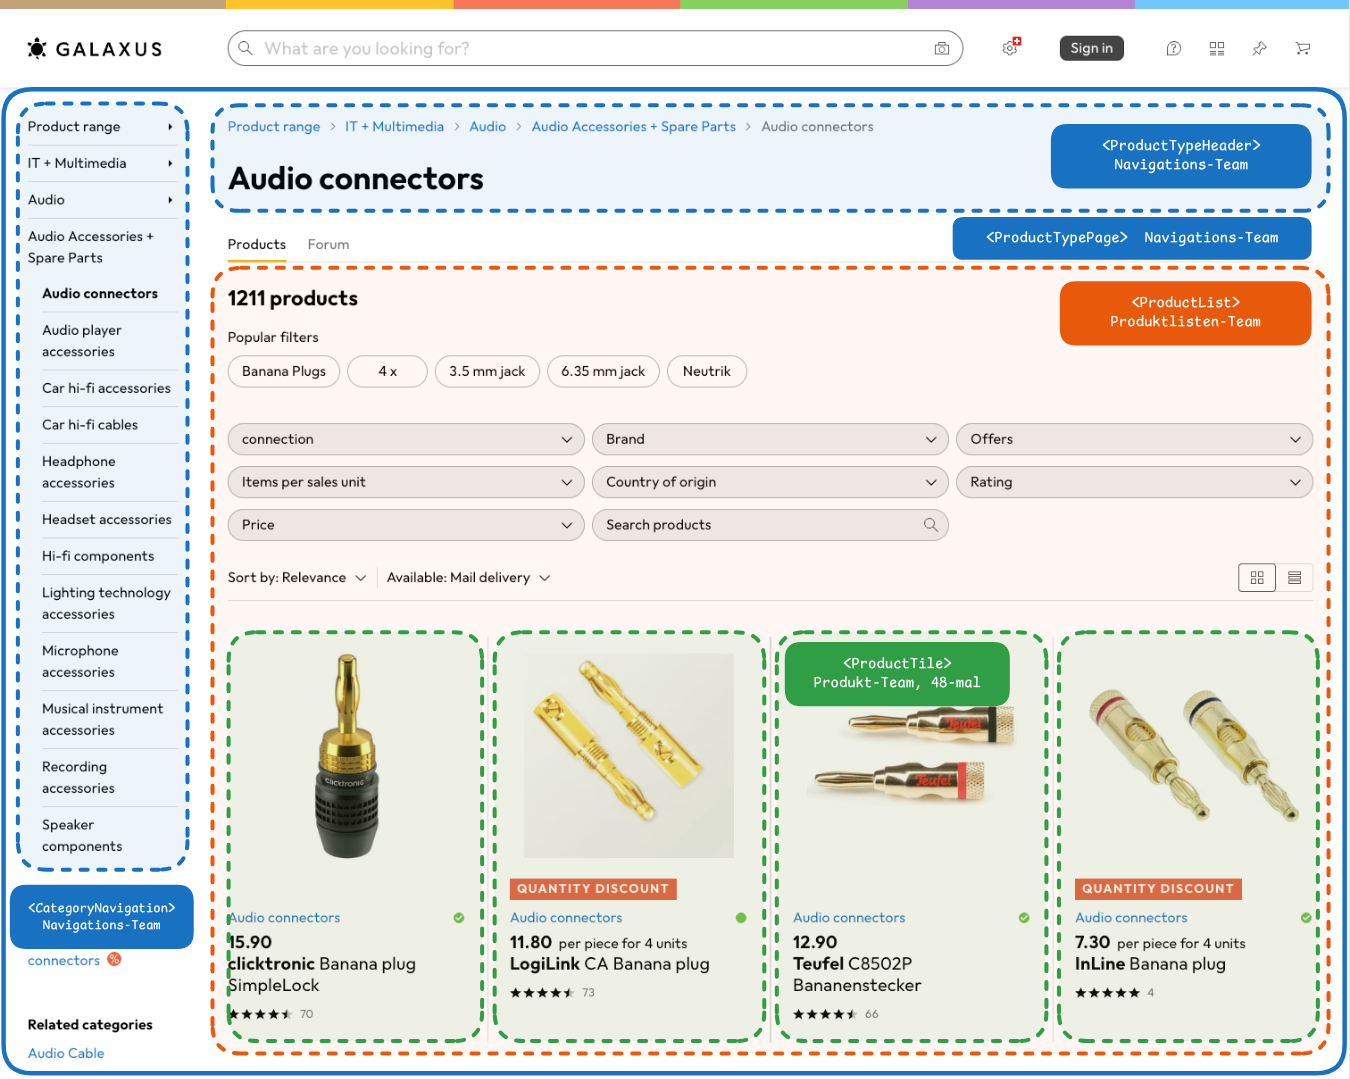
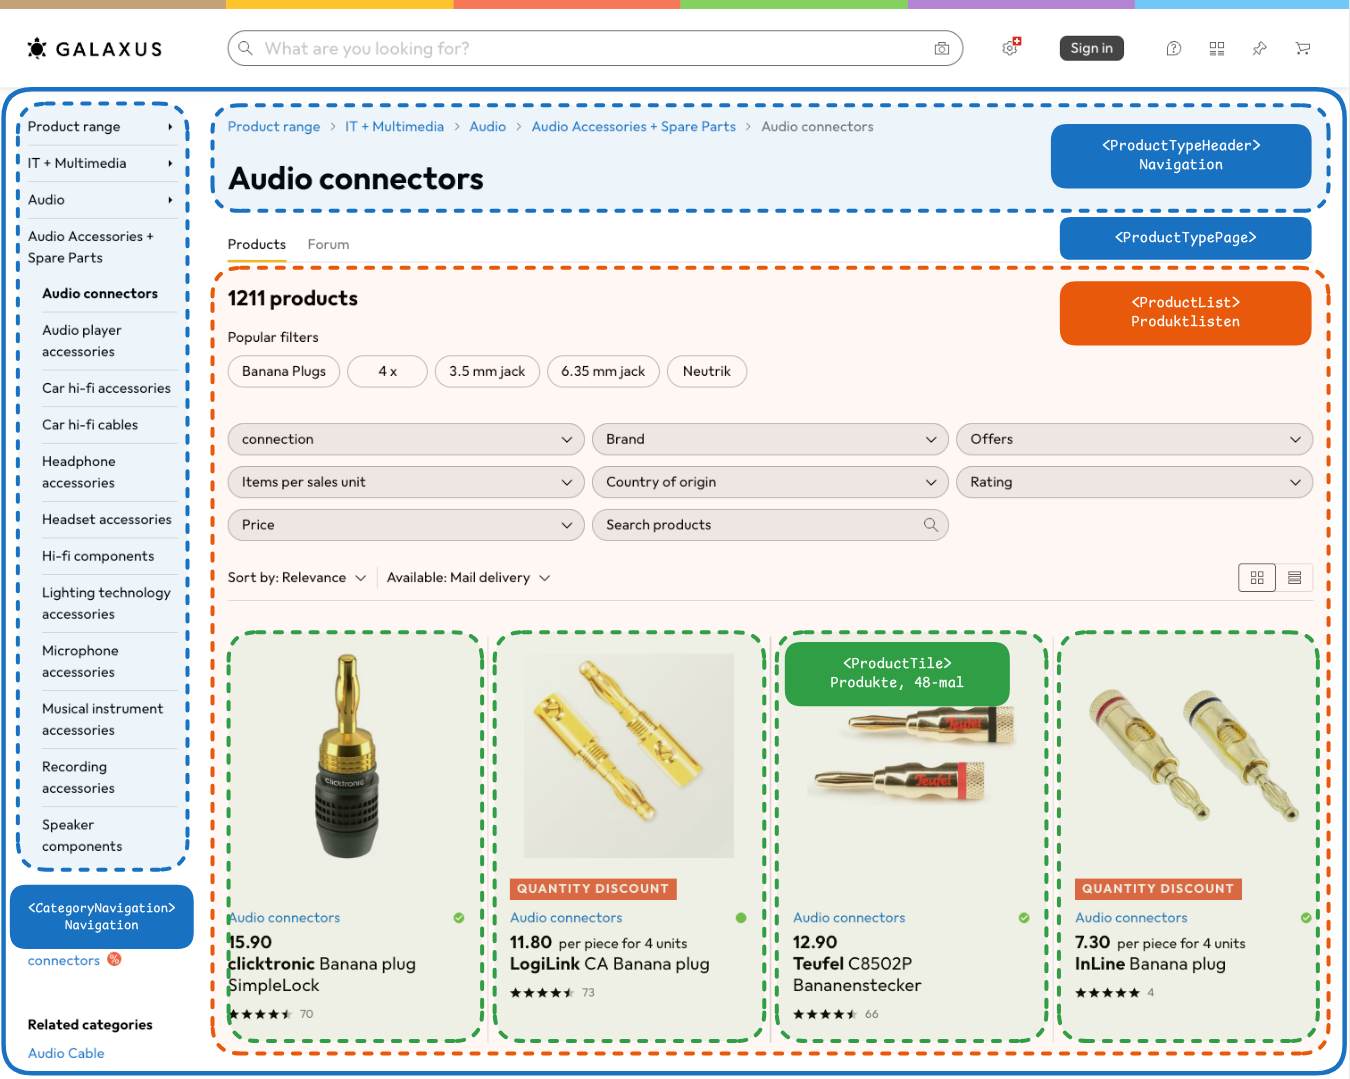
Talk about domains instead of teams in the GraphQL topic
The page now splits its data by domain (navigation, product lists,
products) without mentioning teams. Fragments and data masking are
argued with components, and federation splits the schema by domain.
All affected graphics are relabelled; page-teams.png is now
page-domains.png.

diff --git a/topics/graphql-vs-rest/README.md b/topics/graphql-vs-rest/README.md
@@ -1,13 +1,13 @@
 # Over- und Under-Fetching lösen mit GraphQL
 
-**Das Problem:** Mit REST lädt eine Seite ihre Daten aus mehreren Services in Runden nacheinander und bekommt zu viele und zu wenige Daten.
+**Das Problem:** Mit REST lädt eine Seite ihre Daten aus mehreren Services in Runden nacheinander (Wasserfall) und bekommt zu viele und zu wenige Daten.
 
 **Dauer:** etwa 60 Minuten
 
 ## Inhalt
 
 - [REST in Kürze](#rest-in-kürze)
-- [Das Beispiel: eine Seite, drei Teams](#das-beispiel-eine-seite-drei-teams)
+- [Das Beispiel: eine Seite, drei Domänen](#das-beispiel-eine-seite-drei-domänen)
 - [Das Problem: die Seite mit REST laden](#das-problem-die-seite-mit-rest-laden)
 - [Die Lösung: GraphQL](#die-lösung-graphql)
 - [Fragments: jede Komponente deklariert ihre Daten](#fragments-jede-komponente-deklariert-ihre-daten)
@@ -35,27 +35,27 @@ Accept: application/json
 
 Verwandte Ressourcen erscheinen oft als Links (`href`), denen der Client mit dem nächsten Request folgt.
 
-Gehören API und Frontend demselben Team, ist ein neues Feld auf einer Seite eine Änderung an einem Route Handler. Das funktioniert nicht mehr, sobald die Seite Daten aus **Services anderer Teams** braucht.
+Braucht eine Seite Daten aus einer einzigen API, ist ein neues Feld eine Änderung an einem Route Handler. Das reicht nicht mehr, sobald die Seite Daten aus **mehreren Services** braucht.
 
-## Das Beispiel: eine Seite, drei Teams
+## Das Beispiel: eine Seite, drei Domänen
 
-Unser Beispiel ist eine echte Seite: [Audio-Steckverbinder auf galaxus.ch](https://www.galaxus.ch/en/s1/producttype/audio-connectors-3137). Die Teams, APIs und Responses dazu sind **erfunden**. Sie beschreiben nicht, wie Galaxus gebaut ist.
+Unser Beispiel ist eine echte Seite: [Audio-Steckverbinder auf galaxus.ch](https://www.galaxus.ch/en/s1/producttype/audio-connectors-3137). Die APIs und Responses dazu sind **erfunden**. Sie beschreiben nicht, wie Galaxus gebaut ist.
 
-Drei Teams teilen sich die Seite:
+Die Daten der Seite kommen aus drei Domänen:
 
-- Dem **Navigations-Team** gehört die Seite selbst mit Titel, Breadcrumb und Sidebar.
-- Dem **Produktlisten-Team** gehört die Liste: welche Produkte zu den Filtern passen, wie viele es sind und in welcher Reihenfolge.
-- Dem **Produkt-Team** gehören die Kacheln: Name, Marke, Preis, Bilder und Bewertungen eines Produkts.
+- **Navigation:** die Seite selbst mit Titel, Breadcrumb und Sidebar.
+- **Produktlisten:** welche Produkte zu den Filtern passen, wie viele es sind und in welcher Reihenfolge.
+- **Produkte:** Name, Marke, Preis, Bilder und Bewertungen jeder Kachel.
 
-![Die Produkttyp-Seite des Navigations-Teams, darin die Liste des Produktlisten-Teams und darin die Kacheln des Produkt-Teams](./assets/page-teams.png)
+![Die Produkttyp-Seite aus der Navigation, darin die Produktliste und darin die Produktkacheln](./assets/page-domains.png)
 
-Jedes Team betreibt einen eigenen Service mit eigener REST API. **Die Verschachtelung ist auch die Ladereihenfolge:** Die Seite braucht die Produktliste, und die Liste braucht die Produkte.
+Jede Domäne hat einen eigenen Service mit eigener REST API. **Die Verschachtelung ist auch die Ladereihenfolge:** Die Seite braucht die Produktliste, und die Liste braucht die Produkte.
 
 ## Das Problem: die Seite mit REST laden
 
-### Runde 1: der Produkttyp vom Navigations-Team
+### Runde 1: der Produkttyp aus der Navigation
 
-Die Produkttyp-ID `3137` steht in der URL. Das Navigations-Team liefert Titel, Breadcrumb und Sidebar:
+Die Produkttyp-ID `3137` steht in der URL. Der Navigations-Service liefert Titel, Breadcrumb und Sidebar:
 
 ```jsonc
 // GET /api/product-types/3137
@@ -76,7 +76,7 @@ Die Produkttyp-ID `3137` steht in der URL. Das Navigations-Team liefert Titel, B
 }
 ```
 
-### Runde 2: die Produktliste vom Produktlisten-Team
+### Runde 2: die Produktliste
 
 Die Produktliste ist nur verlinkt, der Browser muss also **auf Runde 1 warten**:
 
@@ -94,9 +94,9 @@ Die Produktliste ist nur verlinkt, der Browser muss also **auf Runde 1 warten**:
 }
 ```
 
-### Runde 3: die Produkte vom Produkt-Team
+### Runde 3: die Produkte
 
-Der Browser fragt das Produkt-Team **für jedes der 48 Produkte** einzeln an:
+Der Browser fragt den Produkt-Service **für jedes der 48 Produkte** einzeln an:
 
 ```jsonc
 // GET /api/products/5862971
@@ -216,7 +216,7 @@ type Product {
 # Category, NavigationEntry, Brand, Money and Rating are left out
 ```
 
-**Das Schema versteckt die Services.** `ProductType.products` sieht aus wie ein gewöhnliches Feld, obwohl der Service des Produktlisten-Teams es beantwortet.
+**Das Schema versteckt die Services.** `ProductType.products` sieht aus wie ein gewöhnliches Feld, obwohl der Produktlisten-Service es beantwortet.
 
 Die Seite schickt **eine Query mit allem, was sie anzeigt**. `$id` ist eine **Variable**, wie ein Routenparameter.
 
@@ -368,12 +368,12 @@ Doku: [Response](https://graphql.org/learn/response/), [Relay: Field Errors](htt
 
 ## Fragments: jede Komponente deklariert ihre Daten
 
-Eine Query pro Seite löst den Wasserfall für den Browser. **Aber wer schreibt sie?** Die Seite besteht aus Komponenten, und die Komponenten gehören den drei Teams:
+Eine Query pro Seite löst den Wasserfall für den Browser. **Aber wer schreibt sie?** Die Seite besteht aus Komponenten, und jede braucht Daten aus einer anderen Domäne:
 
 ![Die Seite aufgeteilt in Komponenten: ProductTypePage umschliesst CategoryNavigation, ProductTypeHeader und ProductList, und ProductList rendert ProductTile](./assets/page-components.png)
 
-- Schreibt **die Seite** die Query, listet sie jedes Feld jedes Teams auf. Jedes neue Feld auf einer Kachel heisst, die Query der Seite anzupassen, und niemand wagt es, ein Feld zu entfernen, also wächst die Query nur.
-- Holt **jede Komponente** ihre eigenen Daten, sind die Teams wieder unabhängig, aber wir sind zurück bei vielen Requests und Wasserfällen.
+- Schreibt **die Seite** die Query, listet sie jedes Feld jeder Komponente auf. Jedes neue Feld auf einer Kachel heisst, die Query der Seite anzupassen, und niemand wagt es, ein Feld zu entfernen, also wächst die Query nur.
+- Holt **jede Komponente** ihre eigenen Daten, sind die Komponenten unabhängig, aber wir sind zurück bei vielen Requests und Wasserfällen.
 
 Die Lösung heisst **Colocation**: Jede Komponente deklariert ihre Felder direkt neben ihrem Code, als **Fragment**. Ein Fragment ist eine benannte Liste von Feldern auf einem Typ, und `...Name` fügt es in eine Query ein. Ein Name wie `ProductTile_product` bedeutet: was `ProductTile` von einem `product` braucht.
 
@@ -459,7 +459,7 @@ export function ProductList(props: { productType: ProductList_productType$key })
 }
 ```
 
-`ProductTypePage`, die Seitenkomponente des Navigations-Teams, setzt nur die Fragments der direkt untergeordneten Komponenten zusammen und lädt die Daten mit `useLazyLoadQuery`:
+`ProductTypePage`, die Seitenkomponente, setzt nur die Fragments der direkt untergeordneten Komponenten zusammen und lädt die Daten mit `useLazyLoadQuery`:
 
 ```tsx
 export function ProductTypePage(props: { id: string }) {
@@ -488,11 +488,11 @@ export function ProductTypePage(props: { id: string }) {
 
 An jeder Stelle `...Name` setzt GraphQL die Felder des Fragments ein. Beim Server kommen also dieselben Felder an wie in der Query weiter oben (plus `id`), und **die Seite schickt weiterhin einen Request**.
 
-Fügt das Produkt-Team der Kachel ein Feld hinzu, das es im Schema schon gibt, ändert das Team nur `ProductTile` und dessen Fragment. **Die Query der Seite bleibt, wie sie ist.**
+Braucht die Kachel ein Feld, das es im Schema schon gibt, änderst du nur `ProductTile` und dessen Fragment. **Die Query der Seite bleibt, wie sie ist.**
 
 ### Data Masking
 
-**Data Masking** versteckt die Felder anderer Teams. `props.product` kommt maskiert an: Erst `useFragment` mit dem eigenen Fragment gibt die Felder frei. In `ProductList` heisst das:
+**Data Masking** versteckt die Felder anderer Komponenten. `props.product` kommt maskiert an: Erst `useFragment` mit dem eigenen Fragment gibt die Felder frei. In `ProductList` heisst das:
 
 ```tsx
 item.id; // fine: ProductList asked for it
@@ -507,7 +507,7 @@ Doku: [Fragments](https://graphql.org/learn/queries/#fragments)
 
 ### Parallel laden, Batch und BFF
 
-Unser REST-Beispiel ist bewusst naiv. Ein REST-Team kann den Wasserfall stark verkürzen:
+Unser REST-Beispiel ist bewusst naiv. Auch mit REST lässt sich der Wasserfall stark verkürzen:
 
 - **Parallel laden.** Die Seite kennt `productTypeId` aus ihrer URL. Produkttyp und Liste warten nur aufeinander, weil wir dem Link folgen.
 - **Ein Batch-Endpoint.** `GET /api/products?ids=5862971,3376520,...` statt 48 einzelner Requests.
@@ -553,7 +553,7 @@ GraphQL verschiebt Arbeit vom Client auf den Server und ins Tooling:
 | **Fehler**        | Ein Statuscode pro Request.                                                            | Ein fehlgeschlagenes Feld liefert meist `200`. Monitoring, das Statuscodes zählt, verpasst es.                                                                            |
 | **Autorisierung** | Wird in jedem Route Handler geprüft.                                                   | Viele Queries erreichen dasselbe Feld. Prüfe Berechtigungen deshalb einmal, im Code hinter den Resolvern, nicht pro Query. Vergisst du es, ist jeder Pfad zum Feld offen. |
 | **Teure Queries** | Jeder Request ist im Voraus bekannt.                                                   | Clients schreiben ihre eigenen. In Produktion erlaubt der Server oft nur bekannte Queries (**Trusted Documents**) und begrenzt Tiefe und Kosten.                          |
-| **Betrieb**       | Endpoints, die die Teams ohnehin betreiben.                                            | Ein zusätzlicher Server, den ein Team betreibt, dazu Codegen und Schema-Checks im CI.                                                                                     |
+| **Betrieb**       | Die Endpoints der Services, die es ohnehin gibt.                                       | Ein zusätzlicher Server, den jemand betreiben muss, dazu Codegen und Schema-Checks im CI.                                                                                 |
 
 Doku: [Autorisierung](https://graphql.org/learn/authorization/), [Sicherheit](https://graphql.org/learn/security/)
 
@@ -568,9 +568,9 @@ Doku: [Auslieferung über HTTP](https://graphql.org/learn/serving-over-http/)
 
 ## GraphQL und REST in einer grossen Firma
 
-Ein grosser Shop nutzt **beides**. Im Hintergrund betreibt jedes Team eigene Services mit eigener Datenbank. Davor sitzen zwei Arten von Einstiegspunkten:
+Ein grosser Shop nutzt **beides**. Im Hintergrund hat jede Domäne einen eigenen Service mit eigener Datenbank. Davor sitzen zwei Arten von Einstiegspunkten:
 
-![Ein GraphQL-Server für die Daten der Seiten, REST-Endpoints für alles andere, dahinter die Services der Teams, die GraphQL oder REST sprechen](./assets/large-company.png)
+![Ein GraphQL-Server für die Daten der Seiten, REST-Endpoints für alles andere, dahinter die Services der Domänen, die GraphQL oder REST sprechen](./assets/large-company.png)
 
 - **Ein GraphQL-Server** für die Seiten des Webshops und der Mobile App. Beide Clients fragen dasselbe Schema nach genau dem, was jeder Screen braucht.
 - **REST-Endpoints** für alles, was gewöhnliches HTTP ist oder mit der Aussenwelt spricht: Login mit seinen Redirects, Datei-Uploads, Webhooks eines Payment-Providers und eine öffentliche API für Partnershops, die stabile URLs und eine Dokumentation in OpenAPI erwarten.
@@ -579,22 +579,22 @@ Hinter dem GraphQL-Server müssen keine REST-Services stehen. **Bieten die Servi
 
 GitHub zum Beispiel bietet seine öffentliche API als REST und als GraphQL an und [vergleicht beide in der Doku](https://docs.github.com/en/rest/about-the-rest-api/comparing-githubs-rest-api-and-graphql-api).
 
-Ein einzelner GraphQL-Server, der 30 Services aufruft, **wird selbst zum Flaschenhals**: Jedes neue Feld braucht das Team, das ihn betreibt. Grosse Firmen teilen den Graphen deshalb oft auf, sodass jedes Team seinen Teil des Schemas betreibt und ein Gateway die Teile zu einem zusammenfügt. Das nennt sich **Federation**.
+Ein einzelner GraphQL-Server, der 30 Services aufruft, **wird selbst zum Flaschenhals**: Jedes neue Feld muss durch diesen einen Server. Grosse Firmen teilen das Schema deshalb nach Domänen auf: Jeder Domänen-Service liefert seinen Teil, und ein Gateway fügt die Teile zu einem Schema zusammen. Das nennt sich **Federation**.
 
 | Situation                                                                                          | Einsatz               |
 | -------------------------------------------------------------------------------------------------- | --------------------- |
-| Ein Team, eine App, eine Handvoll Ressourcen                                                       | REST                  |
-| Ein Client, dessen Team auch einen BFF betreiben kann                                              | REST mit BFF          |
+| Eine App, eine Handvoll Ressourcen                                                                 | REST                  |
+| Ein Client, für den sich ein eigener BFF lohnt                                                     | REST mit BFF          |
 | Öffentliche Daten, die ein CDN cachen soll, Datei-Uploads, Login-Redirects, Webhooks, Partner-APIs | REST                  |
 | Mehrere Clients oder viele Seiten, die Daten aus vielen Services kombinieren                       | GraphQL               |
-| Viele Teams, die Teile derselben Seite bauen                                                       | GraphQL mit Fragments |
+| Viele Komponenten, die Daten aus mehreren Domänen brauchen                                         | GraphQL mit Fragments |
 
 Doku: [graphql.org: Federation](https://graphql.org/learn/federation/)
 
 ## Zusammenfassung
 
-- **GraphQL löst Over- und Under-Fetching für den Browser:** Die Seite fragt in einem Request genau ihre Felder an, Resolver holen sie bei den Services der Teams.
-- Mit Fragments deklariert jede Komponente ihre eigenen Felder, und die Teams bleiben unabhängig.
+- **GraphQL löst Over- und Under-Fetching für den Browser:** Die Seite fragt in einem Request genau ihre Felder an, Resolver holen sie bei den Services der Domänen.
+- Mit Fragments deklariert jede Komponente ihre eigenen Felder und bleibt unabhängig von den anderen.
 - Mit REST lädt dieselbe Seite als Wasserfall. Batch-Endpoints und ein BFF helfen, brauchen aber Arbeit pro Seite.
 - Der Preis: Mit GraphQL verlierst du das Caching über die URL und ehrliche Statuscodes, dazu kommen aufwändigere Fehlerbehandlung und ein Server, den jemand betreibt.
 - An den Rändern bleibt REST: Login, Uploads, Webhooks und öffentliche APIs.
